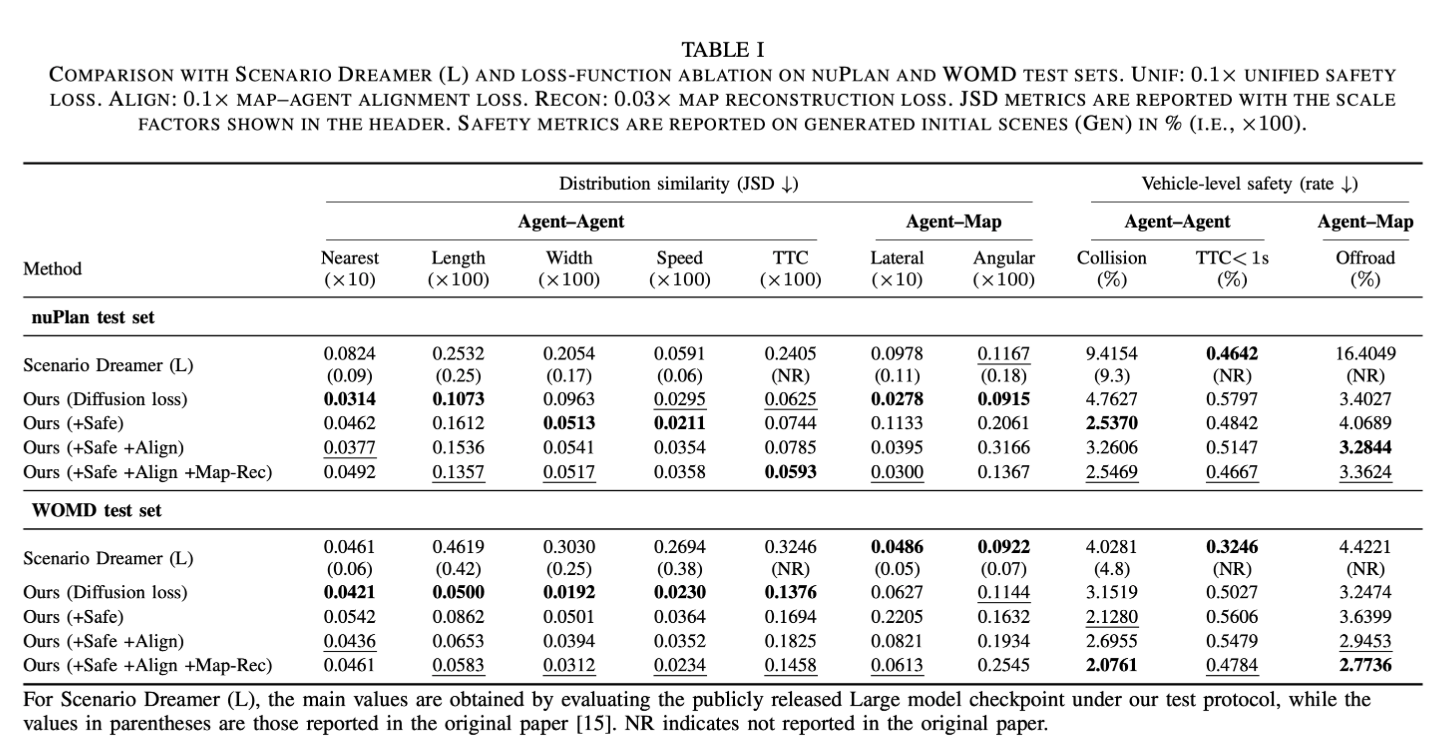
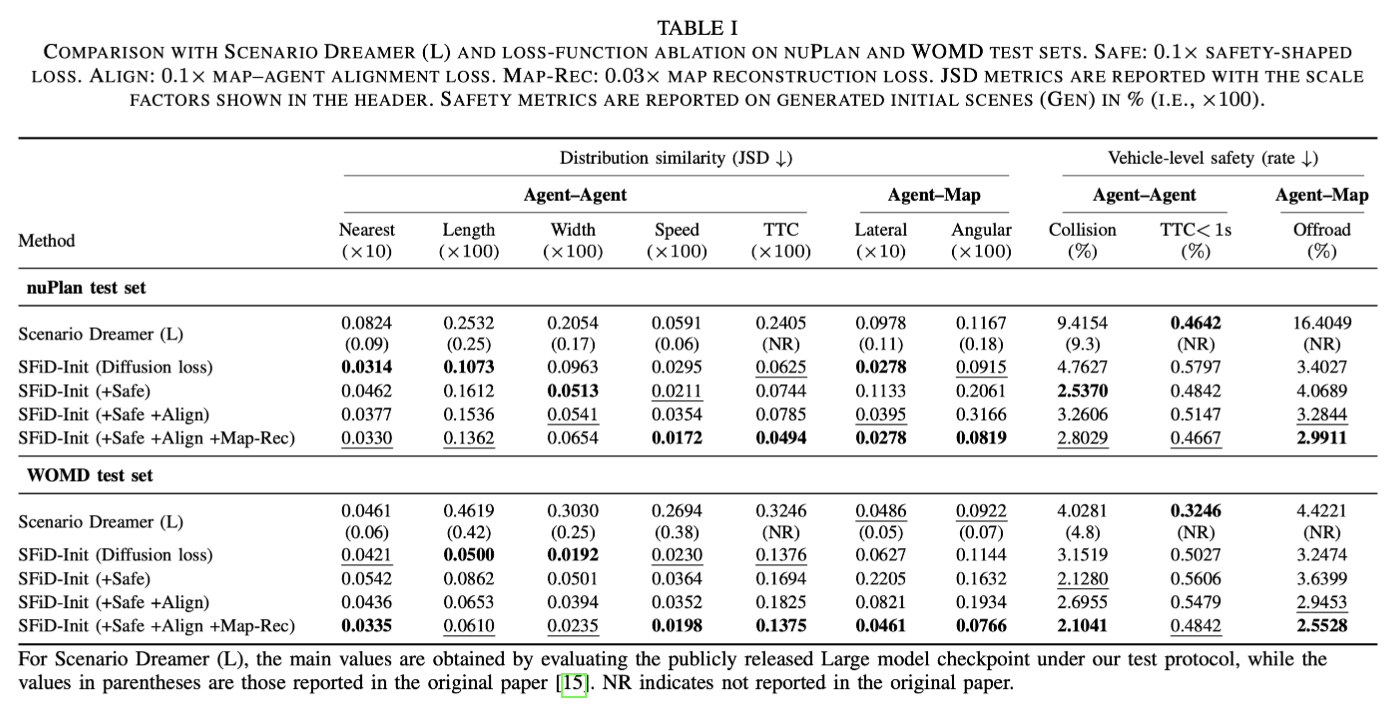
메타데이터 및 설명 업데이트: SFiD-Init 프로젝트 페이지 제목 및 설명 수정, 시각적 요소 추가

Changed region(s): [[0.0, 0.0311, 0.9871, 0.9944]]

diff --git a/index.html b/index.html
@@ -3,8 +3,8 @@
 <head>
   <meta charset="utf-8" />
   <meta name="viewport" content="width=device-width, initial-scale=1" />
-  <title>Scene Initialization — Project Page</title>
-  <meta name="description" content="Project page for a T-IV submission on scene initialization for autonomous driving." />
+  <title>SFiD-Init — Safety- and Fidelity-Regularized Diffusion for HD-Map-Conditioned Traffic Scene Initialization</title>
+  <meta name="description" content="SFiD-Init: a safety- and fidelity-regularized diffusion framework for HD-map-conditioned traffic scene initialization. Generates diverse, realistic, and physically valid multi-agent initial scenes from vectorized HD maps." />
 
   <style>
     :root{
@@ -177,7 +177,7 @@
     <div class="topbar">
       <div class="brand">
         <span class="dot"></span>
-        <b>Scene Initialization — Project Page</b>
+        <b>SFiD-Init — Project Page</b>
       </div>
       <nav class="nav">
         <a href="#abstract">Abstract</a>
@@ -190,9 +190,9 @@
 
     <header>
       <!-- ====== EDIT: Title / Subtitle ====== -->
-      <h1>Scene Initialization with Diffusion and Geometry-aware Relation Biases</h1>
+      <h1>Safety- and Fidelity-Regularized Diffusion for HD-Map-Conditioned Traffic Scene Initialization</h1>
       <p class="subtitle">
-        Project page for an IEEE Transactions on Intelligent Vehicles (T-IV) submission on generating realistic initial traffic scenes from vectorized HD maps.
+        SFiD-Init: a topology- and geometry-aware diffusion framework that generates diverse, realistic, and physically valid multi-agent initial scenes from vectorized HD maps, with safety-shaped and fidelity-preserving regularization.
       </p>
 
       <!-- ====== EDIT: Authors / Affiliations ====== -->
@@ -215,53 +215,55 @@
     <!-- ====== Teaser + Quick Summary ====== -->
     <div class="grid">
       <div class="teaser">
-        <div style="padding:12px 16px 10px; background:#fff; border-bottom:1px solid var(--line);">
-          <p style="margin:0; font-size:13px; color:#222; font-weight:600;">Map-conditioned scene initialization: diverse and safety-aware multi-agent placements from a vectorized HD map.</p>
+        <img src="assets/figs/teaser.png" alt="Overview of SFiD-Init framework for HD-map-conditioned traffic scene initialization">
+        <div style="padding:12px 16px 14px; background:#fff; border-top:1px solid var(--line);">
+          <p style="margin:0; font-size:13px; color:var(--muted);">Overview of SFiD-Init. A topology-aware lane-graph Map Encoder and an interaction-aware Agent Encoder provide map/agent embeddings to a diffusion Transformer denoiser, which iteratively refines noisy agent states using inter-agent and agent–map geometric relation biases (IAGE/AMGE). Safety-shaped and fidelity regularizers during training reduce collision/off-road violations while preserving map-consistent scene statistics.</p>
         </div>
-        <img src="assets/figs/teaser.png" alt="Map-conditioned scene initialization results">
       </div>
 
       <div class="card">
         <h2>At a glance</h2>
         <!-- ====== EDIT: Bullet points ====== -->
-        <p><b>Goal.</b> Generate plausible multi-agent initial scenes conditioned on a vectorized HD map.</p>
-        <p><b>Key components.</b> Map-conditioned diffusion + geometry-aware relation bias encoders (e.g., IAGE/ASGE).</p>
-        <p><b>Evaluation.</b> Distribution similarity (JSD-based) and vehicle-level safety rates on generated scenes.</p>
+        <p><b>Goal.</b> Formulate HD-map-conditioned traffic scene initialization as conditional diffusion generation of joint multi-agent initial states satisfying lane topology/semantics and physical validity.</p>
+        <p><b>Key idea.</b> Topology-aware Map Encoder + interaction-aware Agent Encoder + diffusion Transformer denoiser with continuous geometric relation biases (IAGE/AMGE), regularized by a differentiable safety-shaped loss and fidelity-preserving objectives.</p>
+        <p><b>Evaluation.</b> Distribution similarity (JSD-based) and safety rates (collision/off-road) on nuPlan, WOMD, and unseen Hwaseong LivingLab map.</p>
 
         <div class="divider"></div>
 
         <div class="kv">
           <!-- ====== EDIT: Quick metadata ====== -->
           <div>Datasets</div><div>nuPlan, WOMD (Evaluation on unseen LivingLab map)</div>
-          <div>Baselines</div><div>Scenario Dreamer (Large)</div>
+          <div>Baselines</div><div>SceneGen, TrafficGen, SceneDiffusion, ScenarioDreamer, etc.</div>
           <div>Outputs</div><div>Qualitative GIFs + comparison table</div>
         </div>
 
         <div class="chips">
           <span class="chip">HD map conditioning</span>
           <span class="chip">Scene initialization</span>
-          <span class="chip">Diffusion</span>
-          <span class="chip">Safety-aware losses</span>
-          <span class="chip">Geometry relations</span>
+          <span class="chip">Diffusion Transformer</span>
+          <span class="chip">Safety-shaped loss</span>
+          <span class="chip">Fidelity regularization</span>
+          <span class="chip">Geometric relation biases</span>
         </div>
 
-        <div class="divider"></div>
-
-        <div class="callout">
-          This page does not include code, model weights, or reproducibility instructions. It focuses on qualitative results and a concise summary aligned with the T-IV manuscript.
-        </div>
       </div>
+    </div>
+
+    <div class="callout" style="margin-top:14px;">
+      This page provides qualitative visualizations and a concise summary of SFiD-Init aligned with the IEEE T-IV manuscript. Code and model weights are not included at this time.
     </div>
 
     <!-- ====== Abstract ====== -->
     <section id="abstract">
       <h2>Abstract</h2>
-      <p class="hint">Replace the placeholder text with the abstract from your T-IV paper.</p>
       <div class="card">
         <!-- ====== EDIT: Abstract text ====== -->
         <p>
-          <b>Placeholder.</b> We propose a map-conditioned generative model for initializing realistic multi-agent traffic scenes.
-          The method produces lane-consistent placements and physically plausible interactions, and improves distributional realism and safety statistics on multiple benchmarks.
+          Traffic simulation for autonomous driving requires diverse and physically valid initial scenes, yet large-scale scenario authoring remains labor-intensive.
+          We present \emph{SFiD-Init}, a safety- and fidelity-regularized diffusion framework for HD-map-conditioned traffic scene initialization.
+          SFiD-Init models initialization as conditional generation of a joint multi-agent state from a vectorized HD map, using a topology-aware lane-graph Map Encoder, an interaction-aware Agent Encoder, and a diffusion Transformer denoiser with inter-agent and agent--map geometric relation biases (IAGE/AMGE).
+          To improve physical validity without drifting from the underlying scene distribution, we regularize diffusion training with a differentiable safety-shaped loss for collision/off-road violations and fidelity regularizers that preserve map--agent semantic consistency (contrastive alignment and masked map reconstruction).
+          Experiments on nuPlan and the Waymo Open Motion Dataset demonstrate that SFiD-Init produces realistic and largely valid initial scenes under a larger spatial context and higher agent capacity, and generalizes to an unseen real-world map (Hwaseong LivingLab).
         </p>
       </div>
     </section>
@@ -276,33 +278,35 @@
           <div class="card">
             <h2>Summary</h2>
             <ul class="small">
-              <li><b>Input:</b> Vectorized HD map (lane graph + geometry) and desired number/types of agents.</li>
-              <li><b>Map Encoder:</b> Relation-aware message-passing attention over lane topology produces compact map latents.</li>
-              <li><b>Agent Encoder:</b> IAGE-biased self-attention captures timestep-unconditioned interaction priors, yielding agent latents.</li>
-              <li><b>Diffusion Denoiser:</b> AdaLN-conditioned denoiser iteratively refines noisy agent states via IAGE self-attention, AMGE agent–map cross-attention, and a pointwise FFN.</li>
-              <li><b>Output:</b> Diverse, physically valid and map-consistent initial scene configurations for downstream simulation.</li>
+              <li><b>Input:</b> Vectorized HD map (lane graph with predecessor/successor/adjacent relations) and desired number/types of agents.</li>
+              <li><b>Map Encoder:</b> Topology-aware sparse message-passing attention over lane graphs with optional FiLM-based dynamic context (e.g., traffic signal phases).</li>
+              <li><b>Agent Encoder:</b> IAGE-biased self-attention captures interaction-aware agent embeddings as timestep-unconditioned priors.</li>
+              <li><b>Diffusion Denoiser:</b> AdaLN-conditioned Transformer iteratively refines noisy agent states via IAGE self-attention, AMGE agent–map cross-attention, and a pointwise FFN.</li>
+              <li><b>Training:</b> Diffusion objective + differentiable safety-shaped loss (collision/off-road) + fidelity regularizers (contrastive alignment, masked map reconstruction) to reduce invalidity while mitigating distribution drift.</li>
+              <li><b>Output:</b> Diverse, physically valid and map-consistent joint multi-agent initial scene configurations for downstream simulation.</li>
             </ul>
           </div>
 
           <div class="card">
             <h2>Key components</h2>
             <div class="kv">
-              <div>IAGE</div><div>Interaction-Aware Geometry Encoder — biases agent self-attention with pairwise geometric relations.</div>
-              <div>AMGE</div><div>Agent–Map Geometry Encoder — biases cross-attention between agents and map latents.</div>
+              <div>IAGE</div><div>Inter-Agent Geometric relation bias Encoder — additive attention bias in agent self-attention with continuous pairwise geometric relations.</div>
+              <div>AMGE</div><div>Agent–Map Geometric relation bias Encoder — additive attention bias in cross-attention between agents and map latents.</div>
               <div>AdaLN</div><div>Adaptive Layer Normalization — injects diffusion timestep conditioning via scale-and-shift.</div>
-              <div>Losses</div><div>Diffusion objective + unified safety, alignment, and reconstruction auxiliary losses.</div>
+              <div>Safety</div><div>Differentiable safety-shaped loss penalizing collision and off-road violations during training.</div>
+              <div>Fidelity</div><div>Contrastive map–agent alignment + masked map reconstruction to prevent distribution drift under safety regularization.</div>
             </div>
           </div>
         </div>
 
         <!-- Right: figure -->
         <div class="teaser">
-          <img src="assets/figs/network.png" alt="Overview of the proposed topology- and geometry-aware diffusion network for traffic scene initialization">
+          <img src="assets/figs/network.png" alt="Network architecture of SFiD-Init: topology-aware Map Encoder, interaction-aware Agent Encoder, and diffusion Transformer denoiser">
           <div style="padding:12px 14px 14px; border-top:1px solid var(--line); background:#fff;">
-            <p style="margin:0 0 6px; font-size:12px; color:#222;"><b>Overview of the proposed topology- and geometry-aware diffusion network.</b></p>
-            <p style="margin:0 0 5px; font-size:11px; color:var(--muted);"><b>Left-top: Map Encoder.</b> Relation-aware message-passing attention on lane topology.</p>
-            <p style="margin:0 0 5px; font-size:11px; color:var(--muted);"><b>Left-bottom: Agent Encoder.</b> IAGE-biased self-attention for timestep-unconditioned interaction priors.</p>
-            <p style="margin:0; font-size:11px; color:var(--muted);"><b>Right: Diffusion Denoiser.</b> AdaLN-conditioned; refines states via IAGE self-attention, AMGE cross-attention, and FFN.</p>
+            <p style="margin:0 0 6px; font-size:12px; color:#222;"><b>Network architecture of SFiD-Init.</b></p>
+            <p style="margin:0 0 5px; font-size:11px; color:var(--muted);"><b>Left-top: Map Encoder.</b> Topology-aware sparse message-passing attention over lane graphs (predecessor/successor/adjacent).</p>
+            <p style="margin:0 0 5px; font-size:11px; color:var(--muted);"><b>Left-bottom: Agent Encoder.</b> IAGE-biased self-attention producing interaction-aware agent embeddings.</p>
+            <p style="margin:0; font-size:11px; color:var(--muted);"><b>Right: Diffusion Denoiser.</b> AdaLN-conditioned Transformer refining noisy states via IAGE self-attention, AMGE cross-attention, and FFN with safety and fidelity regularization.</p>
           </div>
         </div>
       </div>
@@ -326,7 +330,7 @@
               <span class="tag">unseen</span>
               <span class="tag">generalization</span>
             </div>
-            <div class="muted">Generalization to an unseen LivingLab map with stable safety statistics.</div>
+            <div class="muted">Generalization to the unseen Hwaseong LivingLab map — lane-consistent and largely collision-free initial scenes.</div>
           </figcaption>
         </figure>
 
@@ -343,7 +347,7 @@
               <span class="tag">unseen</span>
               <span class="tag">generalization</span>
             </div>
-            <div class="muted">Lane-consistent placements on an unseen LivingLab map.</div>
+            <div class="muted">Lane-consistent and physically valid placements on the unseen Hwaseong LivingLab map.</div>
           </figcaption>
         </figure>
 
@@ -360,7 +364,7 @@
               <span class="tag">unseen</span>
               <span class="tag">generalization</span>
             </div>
-            <div class="muted">Diverse multi-agent samples demonstrating map generalization.</div>
+            <div class="muted">Diverse multi-agent initial scene samples demonstrating robust generalization to unseen map topology.</div>
           </figcaption>
         </figure>
 
@@ -370,7 +374,7 @@
     <!-- ====== Comparison ====== -->
     <section id="comparison">
       <h2>Quantitative Comparison</h2>
-      <p class="hint">Add one main table/figure (as an image). Keep it readable at web scale.</p>
+      <p class="hint">Distribution similarity (JSD-based) and safety rates on nuPlan, WOMD, and Hwaseong LivingLab.</p>
 
       <div class="two" style="grid-template-columns: 2fr 1fr;">
         <div class="card">
@@ -382,13 +386,13 @@
           <h2>Notes</h2>
           <!-- ====== EDIT: Short interpretation ====== -->
           <ul class="small">
-            <li>Report distribution similarity (JSD-based) and safety rates on generated scenes.</li>
-            <li>If you reference baselines, ensure the evaluation protocol is clearly stated in the paper.</li>
-            <li>Use the same metric naming as in the manuscript for consistency.</li>
+            <li>SFiD-Init produces realistic and largely valid initial scenes under a larger spatial context and higher agent capacity.</li>
+            <li>Safety-shaped loss and fidelity regularizers reduce collision/off-road violations while preserving distributional realism.</li>
+            <li>Generalization to the unseen Hwaseong LivingLab map demonstrates robustness to novel environments.</li>
           </ul>
           <div class="divider"></div>
           <p class="small muted">
-            Optional: add a small legend explaining any symbols (e.g., <span class="mono">NR</span> for not reported).
+            <span class="mono">NR</span>: not reported by the baseline. Evaluation follows the same protocol as described in the manuscript.
           </p>
         </div>
       </div>
@@ -397,7 +401,7 @@
     <!-- ====== Paper ====== -->
     <section id="paper">
       <h2>Paper</h2>
-      <p class="hint">Keep placeholders until acceptance. Replace links when ready.</p>
+      <p class="hint">Under review at IEEE Transactions on Intelligent Vehicles (T-IV). Links will be updated upon acceptance.</p>
 
       <div class="two">
         <div class="card">
@@ -413,9 +417,10 @@
 
         <div class="card">
           <h2>Citation</h2>
-          <p class="small muted">Replace with the final BibTeX after acceptance.</p>
-          <pre style="margin:0; padding:14px; border-radius:14px; border:1px solid var(--line); background:#fff; overflow:auto;"><code class="mono">@article{sceneinit2026,
-  title   = {Scene Initialization with ...},
+          <p class="small muted">Provisional BibTeX — will be updated upon acceptance.</p>
+          <pre style="margin:0; padding:14px; border-radius:14px; border:1px solid var(--line); background:#fff; overflow:auto;"><code class="mono">@article{sfidinit2026,
+  title   = {Safety- and Fidelity-Regularized Diffusion
+             for HD-Map-Conditioned Traffic Scene Initialization},
   author  = {Author A and Author B and Author C},
   journal = {IEEE Transactions on Intelligent Vehicles},
   year    = {2026}
@@ -440,7 +445,7 @@
         Press <span class="kbd">/</span> to focus search, use the dataset dropdown to filter GIFs.
       </div>
       <div style="margin-top:6px;">
-        © <span id="year"></span> — Project page for a T-IV submission. All rights reserved.
+        © <span id="year"></span> — SFiD-Init: Safety- and Fidelity-Regularized Diffusion for HD-Map-Conditioned Traffic Scene Initialization. All rights reserved.
       </div>
     </div>
   </div>
